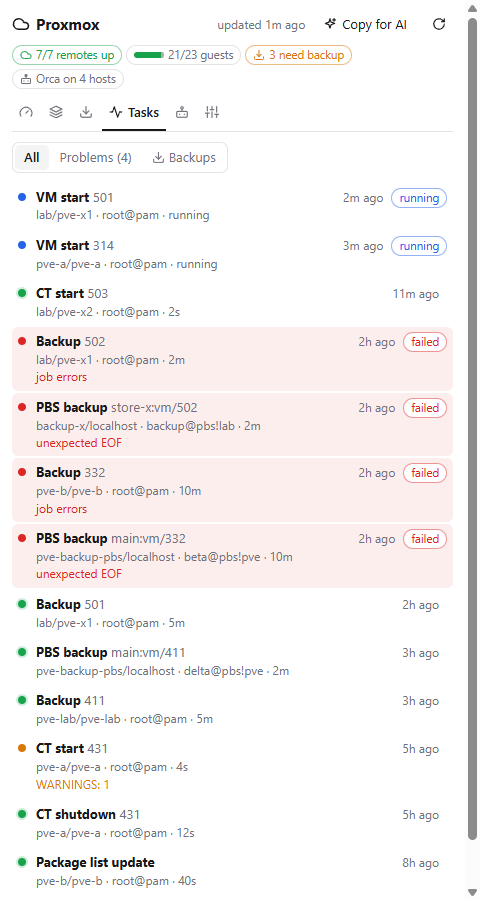
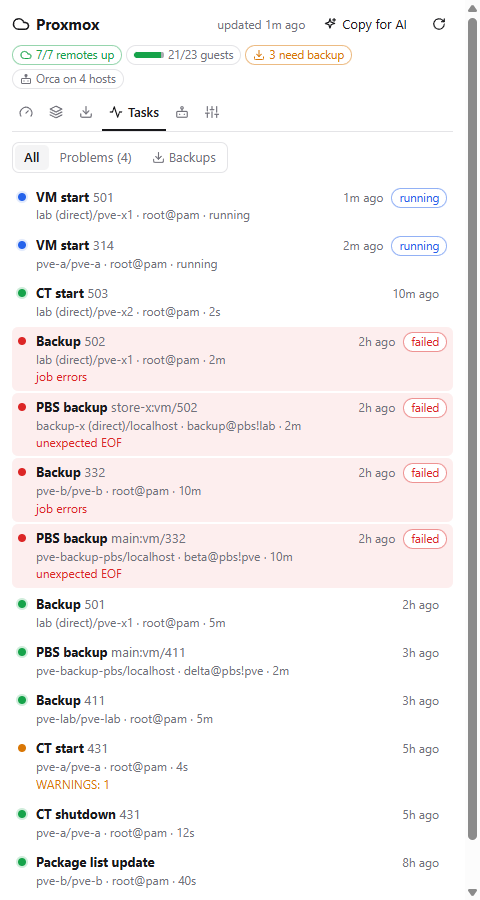
Screenshots from the example estate: the reworked Settings, labelled direct remotes, and a cover that names direct connections

diff --git a/README.md b/README.md
@@ -44,7 +44,7 @@ Rendered from the bundled example estate (no real servers):
   <img src="docs/screenshots/tasks.png" alt="The tasks of all remotes, with two failed backups in red" width="240">
   <img src="docs/screenshots/planner.png" alt="Where a new VM fits: free memory, disk and CPU per node, best fit first" width="240">
   <img src="docs/screenshots/orca.png" alt="The Orca tab: one Orca server per Proxmox node, with its bot and workspaces" width="240">
-  <img src="docs/screenshots/settings.png" alt="Settings: a PDM connection, a PVE cluster and a PBS reached directly, each with its token and pinned certificate" width="240">
+  <img src="docs/screenshots/settings.png" alt="Settings: a PDM, a PVE and a PBS connection listed compactly, one opened for editing with its token and pinned certificate, and folded sections for the import file, help and plugin options" width="240">
   <img src="docs/screenshots/copy-for-ai.png" alt="The Copy for AI preview in the mode without addresses, with the text to copy" width="240">
 </p>
 
